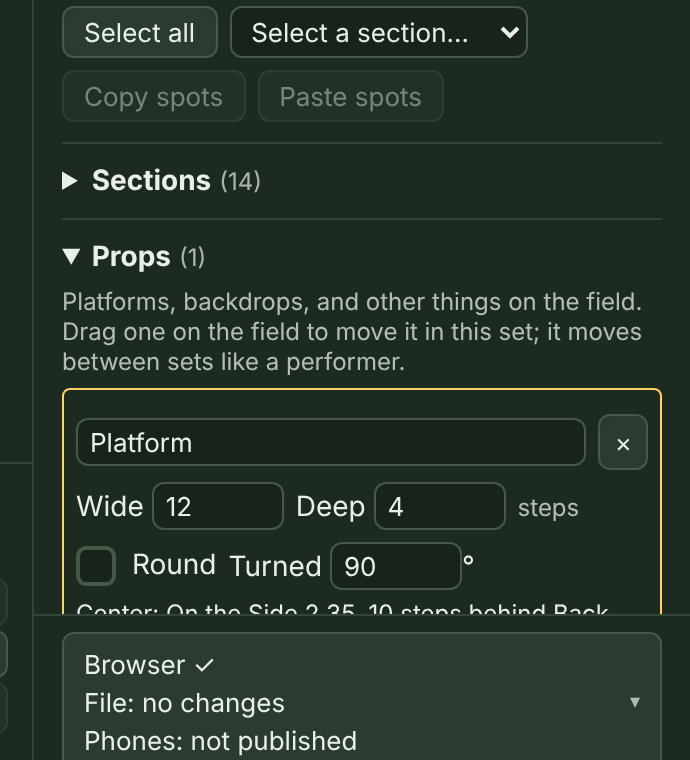
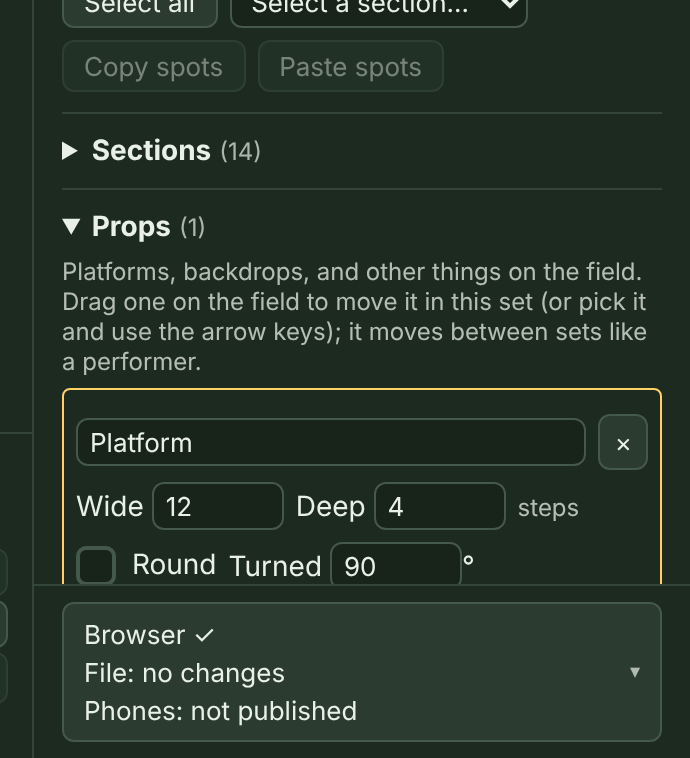
Turns, custom path points, and props by keyboard
- With a follow-the-leader group or a custom path selected, Tab steps
  through its turns or points like a shape's handles: gold ring, named in
  the field's note, arrows move 1/4/half a step, Enter keeps, Esc restores.
  Shapes and turns share the code.
- Arrow keys move the picked prop; Tab reaches each prop's box in the
  sidebar, and focusing it picks the prop.

Claude-Session: https://claude.ai/code/session_012ak5ZU6YMQLnq6c3SxmXJ2

diff --git a/src/App.tsx b/src/App.tsx
@@ -121,10 +121,10 @@ export function App() {
   const [selectedMark, setSelectedMark] = useState<string | null>(null);
   const [selectedProp, setSelectedProp] = useState<string | null>(null); // a prop picked on the field or in the sidebar
   const [shapeEdit, setShapeEdit] = useState<{ shape: Shape; order: string[]; set: number; base: Show } | null>(null); // base: the show before this shape began
-  // The handle the keyboard is on (Tab steps through the open shape's handles), and the shape as it was when it was picked, for Esc.
+  // The handle the keyboard is on (Tab steps through the open shape's handles, or the selected follow-the-leader group's
+  // turns and a custom path's points), and what it was when it was picked, for Esc.
   const [keyHandle, setKeyHandle] = useState<number | null>(null);
-  const keyHandleStart = useRef<Shape | null>(null);
-  useEffect(() => { setKeyHandle(null); keyHandleStart.current = null; }, [!!shapeEdit, shapeEdit?.shape.kind]); // eslint-disable-line react-hooks/exhaustive-deps
+  const keyHandleStart = useRef<unknown>(null);
   const [fileError, setFileError] = useState('');
   const [printing, setPrinting] = useState(false);
   const [sharing, setSharing] = useState(false);
@@ -436,6 +436,7 @@ export function App() {
     if (onSet >= 0) drawMarks(ctx, view, show.sets[onSet].marks ?? [], fieldLook, selectedMark);
     drawPerformers(ctx, view, dots, selected, paths, box, dpr, { warn, lasso, look: fieldLook });
     if (ftlGroup?.turns) drawShape(ctx, view, [], false, ftlGroup.turns, [], [], fieldLook); // the selected FTL group's turns: drag to move
+    if (!shapeEdit && keyHandle !== null && ftlGroup?.turns?.[keyHandle]) drawHandleFocus(ctx, view, ftlGroup.turns[keyHandle]); // the one the keyboard is on
     const fr = frameNow();
     if (fr) drawShape(ctx, view, fr.corners, true, [...fr.corners, fr.knob], [false, false, false, false, true], [[fr.stem, fr.knob]], fieldLook);
     if (shapeEdit) {
@@ -536,37 +537,54 @@ export function App() {
 
   const fieldBox = useRef<HTMLDivElement>(null);
   const onField = () => !!fieldBox.current && (fieldBox.current.matches(':hover') || fieldBox.current.contains(document.activeElement));
-  // An open shape's handles by keyboard: Tab and Shift+Tab step through them (past the last one, Tab goes on to the page as
-  // usual), arrows move the one you're on (Shift 4 steps, Option/Alt half a step), Enter keeps it, Esc puts it back.
-  // Tab only picks a handle when nothing else has focus (after clicking the field, or a shape's shortcut key).
-  const shapeKeys = (e: KeyboardEvent, el: HTMLElement): boolean => {
-    if (!shapeEdit || e.metaKey || e.ctrlKey) return false;
-    const sh = shapeEdit.shape, n = sh.handles.length, name = SHAPES.find((x) => x[0] === sh.kind)?.[1] ?? 'Shape';
-    const say = (k: number, p: Point, more = '') => setNotice({ t, text: `${name}, ${handleName(sh, k)}: ${readout(p, fieldOf(show))}${more}` });
+  // Handles by keyboard, for an open shape and for the selected follow-the-leader group's turns (a custom path's points):
+  // Tab and Shift+Tab step through them (past the last one, Tab goes on to the page as usual), arrows move the one you're on
+  // (Shift 4 steps, Option/Alt half a step), Enter keeps it, Esc puts it back. Tab only picks a handle when nothing else
+  // has focus (after clicking the field, or a shape's shortcut key).
+  type KeyTarget = { pts: Point[]; noun: string; name: (k: number) => string; move: (k: number, p: Point) => void; snapshot: unknown; restore: (snap: unknown) => void };
+  const keyTarget = (): KeyTarget | null => {
+    if (shapeEdit) {
+      const sh = shapeEdit.shape, title = SHAPES.find((x) => x[0] === sh.kind)?.[1] ?? 'Shape';
+      return { pts: sh.handles, noun: 'Handle', name: (k) => `${title}, ${handleName(sh, k)}`, move: (k, p) => updateShape(moveHandle(sh, k, p)), snapshot: sh, restore: (x) => updateShape(x as Shape) };
+    }
+    const g = ftlGroup;
+    if (g?.turns?.length && onSet > 0 && (tool === 'select' || tool === 'turn')) {
+      const leader = g.order[0], who = label(show, show.performers.find((x) => x.id === leader)!), custom = g.order.length === 1, turns = g.turns;
+      return {
+        pts: turns, noun: custom ? 'Point' : 'Turn',
+        name: (k) => (custom ? `Custom path for ${who}, point ${k + 1}` : `Follow the leader (${who} leads), turn ${k + 1}`),
+        move: (k, p) => setShow((s) => setFtlTurns(s, onSet, leader, turns.map((x, j) => (j === k ? p : x)))),
+        snapshot: turns, restore: (x) => setShow((s) => setFtlTurns(s, onSet, leader, x as Point[])),
+      };
+    }
+    return null;
+  };
+  useEffect(() => { setKeyHandle(null); keyHandleStart.current = null; }, [!!shapeEdit, shapeEdit?.shape.kind, selected, onSet]); // eslint-disable-line react-hooks/exhaustive-deps
+  const handleKeys = (e: KeyboardEvent, el: HTMLElement): boolean => {
+    const kt = keyTarget();
+    if (!kt || e.metaKey || e.ctrlKey) return false;
+    const n = kt.pts.length;
+    const say = (k: number, p: Point, more = '') => setNotice({ t, text: `${kt.name(k)}: ${readout(p, fieldOf(show))}${more}` });
+    const done = () => { setKeyHandle(null); keyHandleStart.current = null; setNotice(null); };
     if (e.key === 'Tab' && !e.altKey && (keyHandle !== null || el === document.body || !!fieldBox.current?.contains(el))) {
       const next = keyHandle === null ? (e.shiftKey ? n - 1 : 0) : keyHandle + (e.shiftKey ? -1 : 1);
-      if (next < 0 || next >= n) { setKeyHandle(null); keyHandleStart.current = null; setNotice(null); return false; }
+      if (next < 0 || next >= n) { done(); return false; }
       e.preventDefault();
-      setKeyHandle(next); keyHandleStart.current = sh;
-      say(next, sh.handles[next], `. Handle ${next + 1} of ${n}: arrows move it, Enter keeps it, Esc puts it back.`);
+      setKeyHandle(next); keyHandleStart.current = kt.snapshot;
+      say(next, kt.pts[next], `. ${kt.noun} ${next + 1} of ${n}: arrows move it, Enter keeps it, Esc puts it back.`);
       return true;
     }
-    if (keyHandle === null || !sh.handles[keyHandle]) return false;
+    if (keyHandle === null || !kt.pts[keyHandle]) return false;
     if (e.key.startsWith('Arrow')) {
       e.preventDefault();
-      const by = e.shiftKey ? 4 : e.altKey ? 0.5 : 1, h = sh.handles[keyHandle];
+      const by = e.shiftKey ? 4 : e.altKey ? 0.5 : 1, h = kt.pts[keyHandle];
       const p = { x: h.x + (e.key === 'ArrowRight' ? by : e.key === 'ArrowLeft' ? -by : 0), y: h.y + (e.key === 'ArrowUp' ? by : e.key === 'ArrowDown' ? -by : 0) };
-      updateShape(moveHandle(sh, keyHandle, p));
+      kt.move(keyHandle, p);
       say(keyHandle, p);
       return true;
     }
-    if (e.key === 'Enter') { e.preventDefault(); setKeyHandle(null); keyHandleStart.current = null; setNotice(null); return true; }
-    if (e.key === 'Escape') {
-      e.preventDefault();
-      if (keyHandleStart.current) updateShape(keyHandleStart.current);
-      setKeyHandle(null); keyHandleStart.current = null; setNotice(null);
-      return true;
-    }
+    if (e.key === 'Enter') { e.preventDefault(); done(); return true; }
+    if (e.key === 'Escape') { e.preventDefault(); if (keyHandleStart.current) kt.restore(keyHandleStart.current); done(); return true; }
     return false;
   };
 
@@ -578,7 +596,7 @@ export function App() {
       if ((e.metaKey || e.ctrlKey) && (e.key === 's' || e.key === 'S')) { e.preventDefault(); saveRef.current(true); return; }
       if (printing || document.querySelector('[role=dialog]') || el.closest('input, select, textarea')) return; // text fields keep the browser's own undo
       if (e.defaultPrevented) return; // a control used the key itself (arrows reordering sections)
-      if (shapeKeys(e, el)) return; // an open shape's handles: Tab, arrows, Enter, Esc
+      if (handleKeys(e, el)) return; // an open shape's handles, or a group's turns: Tab, arrows, Enter, Esc
       boundary.current = true;
       const mod = e.metaKey || e.ctrlKey;
       if (mod && (e.key === 'z' || e.key === 'Z')) { e.preventDefault(); step(e.shiftKey ? 'redo' : 'undo'); }
@@ -592,6 +610,14 @@ export function App() {
       else if (mod && (e.key === 'v' || e.key === 'V') && clip && onSet >= 0) { e.preventDefault(); pasteSpots(); }
       else if (mod) return; // leave other shortcuts to the browser
       else if (e.key === ' ') { e.preventDefault(); if (clickOn) wakeClick(); setPlaying((p) => !p); } // sound starts only inside a key press or tap
+      else if (e.key.startsWith('Arrow') && selectedProp && !selected.size && onSet >= 0 && !playing && show.sets[onSet].props?.[selectedProp]) {
+        // Nudge the picked prop, like performers: 1 step, Shift 4 steps, Option/Alt half a step. Up is up on the screen.
+        e.preventDefault();
+        const n = e.shiftKey ? 4 : e.altKey ? 0.5 : 1, spot = show.sets[onSet].props![selectedProp];
+        const q = { ...spot, x: spot.x + (e.key === 'ArrowRight' ? n : e.key === 'ArrowLeft' ? -n : 0), y: spot.y + (e.key === 'ArrowUp' ? n : e.key === 'ArrowDown' ? -n : 0) };
+        setShow((s) => placeProp(s, onSet, selectedProp, q));
+        setNotice({ t, text: `${show.props?.find((x) => x.id === selectedProp)?.name ?? 'Prop'} center: ${readout(q, fieldOf(show))}` });
+      }
       else if (e.key.startsWith('Arrow') && selected.size && onSet >= 0 && !playing) {
         // Nudge the selection: 1 step, Shift 4 steps, Option/Alt half a step. Up is up on the screen.
         e.preventDefault();

diff --git a/src/ui/Sidebar.tsx b/src/ui/Sidebar.tsx
@@ -499,11 +499,11 @@ function PropsEditor({ show, setShow, onSet, selected, setSelected }: { show: Sh
   return (
     <details open={open} onToggle={(e) => setOpen(e.currentTarget.open)} style={{ borderTop: '1px solid var(--line)', padding: '10px 0' }}>
       <summary><strong>Props</strong> <span style={{ fontSize: 12, opacity: 0.7 }}>({props.length})</span></summary>
-      <p style={{ fontSize: 12, opacity: 0.75, margin: '6px 0' }}>Platforms, backdrops, and other things on the field. Drag one on the field to move it in this set; it moves between sets like a performer.</p>
+      <p style={{ fontSize: 12, opacity: 0.75, margin: '6px 0' }}>Platforms, backdrops, and other things on the field. Drag one on the field to move it in this set (or pick it and use the arrow keys); it moves between sets like a performer.</p>
       {props.map((pr) => {
         const spot = onSet >= 0 ? show.sets[onSet].props?.[pr.id] : undefined, sel = pr.id === selected;
         return (
-          <div key={pr.id} onClick={() => setSelected(pr.id)} style={{ border: `1px solid ${sel ? 'var(--gold)' : 'var(--line)'}`, borderRadius: 4, padding: 6, marginTop: 6 }}>
+          <div key={pr.id} tabIndex={0} aria-label={`Prop ${pr.name}${sel ? ', picked: arrow keys move it' : ''}`} onClick={() => setSelected(pr.id)} onFocus={(e) => { if (e.target === e.currentTarget) setSelected(pr.id); }} style={{ border: `1px solid ${sel ? 'var(--gold)' : 'var(--line)'}`, borderRadius: 4, padding: 6, marginTop: 6 }}>
             <div style={row}>
               <input aria-label="Prop name" value={pr.name} maxLength={MAX_NAME} style={{ flex: 1, minWidth: 80 }} onChange={(e) => setShow((s) => updateProp(s, pr.id, { name: e.target.value }))} />
               <button aria-label={`Delete prop ${pr.name}`} title="Delete this prop from the whole show" className="icon danger"

diff --git a/docs/HOW-TO.md b/docs/HOW-TO.md
@@ -260,13 +260,13 @@ Rotating or stretching usually leaves performers between grid steps. Select them
 3. Drag the leader to their end spot. Everyone else follows the trail.
 4. For a route with corners, click **Add turns**, then click each turn on the field in marching order. Press Esc when you're done.
 
-With the group selected, each turn has a blue handle you can drag. **Remove last turn** and **Straight route** take turns back out, and **Straight** at the top of **Path** turns follow the leader off for that group. Turns move with the group when you drag, flip, rotate, or stretch it, and **Copy Side 1 → 2** copies an FTL group to the other side.
+With the group selected, each turn has a blue handle you can drag. To move one by keyboard, click the field (so no button has focus) and press Tab: a gold ring goes around the first turn, and the note at the bottom of the field names it and says where it is, like "Follow the leader (G6 leads), turn 1: On the Side 2 30, 14 steps behind Front Sideline." Tab and Shift+Tab step through the turns, the arrow keys move the one you're on (Shift for 4 steps, Option or Alt for half a step), Enter keeps it, and Esc puts it back. **Remove last turn** and **Straight route** take turns back out, and **Straight** at the top of **Path** turns follow the leader off for that group. Turns move with the group when you drag, flip, rotate, or stretch it, and **Copy Side 1 → 2** copies an FTL group to the other side.
 
 Everyone in an FTL move covers the leader's whole route at one steady step size, so a turn never makes anybody take a giant step.
 
 **Smooth.** Once a route has turns, check **Smooth** to round the corners into a curve that passes through every turn. Everyone still marches it at one steady step size.
 
-**Custom.** A soloist or drum major who loops around a form can have a path of their own. Select just that performer, open **Path**, and click **Custom**. Then click the field at each point they march through, in order, and press Esc. **Smooth** makes it a curve, you can drag the points to move them, and **Straight** goes back to a straight line.
+**Custom.** A soloist or drum major who loops around a form can have a path of their own. Select just that performer, open **Path**, and click **Custom**. Then click the field at each point they march through, in order, and press Esc. **Smooth** makes it a curve, you can drag the points to move them (or press Tab to step through them and move one with the arrow keys, as with follow-the-leader turns), and **Straight** goes back to a straight line.
 
 ![One trumpet's custom, smooth path into set 2](img/route.png)
 
@@ -292,6 +292,7 @@ Props are things on the field that aren't performers: a platform, a backdrop, a 
 
 - Type its name, and set how **Wide** (side to side) and **Deep** (front to back) it is, in steps. Check **Round** for an oval or circle.
 - **Drag it on the field** to move it in the set you're on. While you drag, the readout in the corner of the field shows where its center is, and **Center** in its box in the sidebar shows the same. Like a performer, it moves into later sets where it was still standing on its old spot, and it rolls from spot to spot between sets.
+- **By keyboard**: with a prop picked, the arrow keys move it 1 step (Shift for 4 steps, Option or Alt for half a step), and the note at the bottom of the field says where its center is. To pick one without the mouse, Tab to its box under **Props** in the sidebar. Type its turn in **Turned**.
 - **Turned** turns it in this set, in degrees counterclockwise. Between sets it turns the short way.
 - Click it on the field to pick it (performers standing on it get picked first), and press Delete (the key or the button) or click **×** to remove it from the whole show.
 
@@ -583,9 +584,10 @@ When something isn't saved somewhere it could be, the box also gets a dashed out
 | Move the selection 1 step | ← → ↑ ↓ |
 | Move the selection 4 steps | Shift + arrow |
 | Move the selection half a step | Option (Alt) + arrow |
-| With a shape open: step through its handles | Tab, or Shift+Tab to go back |
+| With a shape open, or a follow-the-leader group or custom path selected: step through its handles, turns, or points | Tab, or Shift+Tab to go back |
 | Move the handle you're on 1, 4, or half a step | Arrow, Shift + arrow, Option (Alt) + arrow |
 | Keep the handle where it is, or put it back | Enter, or Esc |
+| Move the picked prop 1, 4, or half a step | Arrow, Shift + arrow, Option (Alt) + arrow |
 | Zoom the field in or out | ⌘+ or ⌘− (Ctrl on Windows), with the mouse over the field |
 | Fit the whole field | F, or ⌘0 (Ctrl+0) with the mouse over the field |
 | Select everyone | ⌘A (Ctrl+A on Windows) |

diff --git a/DECISIONS.md b/DECISIONS.md
@@ -1609,3 +1609,8 @@ Each entry: timestamp, who decided, context, options considered, decision.
 - **Context:** An audit found the colors themselves came from the palette, but shadows were five sizes and three strengths of plain black, dialog backdrops were 50% or 60%, the readout over the field was hard-coded dark in light mode too, and the field drawing's whites, near-blacks, and tints were typed into the code.
 - **Decision:** `palette.ts` gains `EFFECTS` / `EFFECTS_LIGHT` (shadow, a stronger shadow, the dialog backdrop, the play-range dimming, and the see-through readout over the field; light mode's are softer, a dark green-gray instead of black) and `FIELD` (the field's ink, the same in both modes). The page gets them as CSS variables, plus two shadow sizes: `--raise` (menus, notes, cards, the zoom box, a sidebar over the field) and `--lift` (dialogs, the Start your show note, the phone's sheet). Every shadow, backdrop, and field color now uses them; the readout under the field follows the theme (a light box with dark text in light mode). `palette.test.ts` checks the CSS variables match and fails on any loose hex or rgba color in the code or the page styles, print excepted. CLAUDE.md's "One palette" rule says so. Dark mode looks the same as before; light mode's shadows and the readout change.
 
+## 2026-11-11: Turns, custom path points, and props by keyboard
+- **Who:** Jason Tiller asked for them "like the shape handles"; the details are Claude's calls (Jason can veto).
+- **Turns and points:** with a follow-the-leader group (or one performer's custom path, which is a group of one) selected, Tab and Shift+Tab step through its turns the same way they do a shape's handles, with the same gold ring, arrows, Enter, and Esc. The note names them "Follow the leader (G6 leads), turn 1" or "Custom path for P1, point 2". Tab only picks one when nothing else has focus, as with shapes. The shape handles and the turns share one piece of code.
+- **Props:** with a prop picked (and no performers), the arrow keys move it 1 step (Shift 4, Option/Alt half), and the note says where its center is. Each prop's box under **Props** in the sidebar can be reached with Tab, and focusing it picks the prop, so it can be picked without a mouse. Turning stays in the typed **Turned** box rather than adding X / Y / angle boxes, since the arrows and **Turned** already cover moving and turning (the X / Y / angle idea is dropped).
+

diff --git a/PLAN.md b/PLAN.md
@@ -83,7 +83,8 @@
 - ✅ A **▶ Watch the move into set N** button on My dots cards whose route isn't a straight line: plays just that move, once, on the field. Follow-up: offer it on every moving card if students want it.
 - ✅ Shape handles by keyboard (Jason chose Tab through every handle): Tab and Shift+Tab step through the open shape's handles with a gold ring and a spoken name and spot, arrows move 1, 4, or half a step, Enter keeps, Esc puts back.
 - ✅ One palette for everything (2026-11-11): shadows (two sizes), dialog backdrops, see-through overlays, and the field's own ink are named in `palette.ts`, with softer light-mode shadows; a test fails on any loose color.
-- Still to do (accessibility): the same for custom path points, follow-the-leader turns, and props (props could use an X / Y / angle box in the sidebar); a check with VoiceOver, large text, and in sunlight on real phones.
+- ✅ The same for follow-the-leader turns and custom path points (Tab through them with the group selected), and props (arrow keys move the picked prop; Tab reaches each prop's box in the sidebar to pick it; **Turned** takes a typed angle).
+- Still to do (accessibility): a check with VoiceOver, large text, and in sunlight on real phones.
 
 ## From the 2026-11-10 review
 Claude went through the docs, ran the tests, and clicked through the editor and the phone view (desktop, iPhone upright, iPhone on its side, all emulated). Jason approved the list, and the in-repo items were built the same day (✅ below). Still to do: the upload service, video export, current Pyware files, Spanish, and getting the word out.
